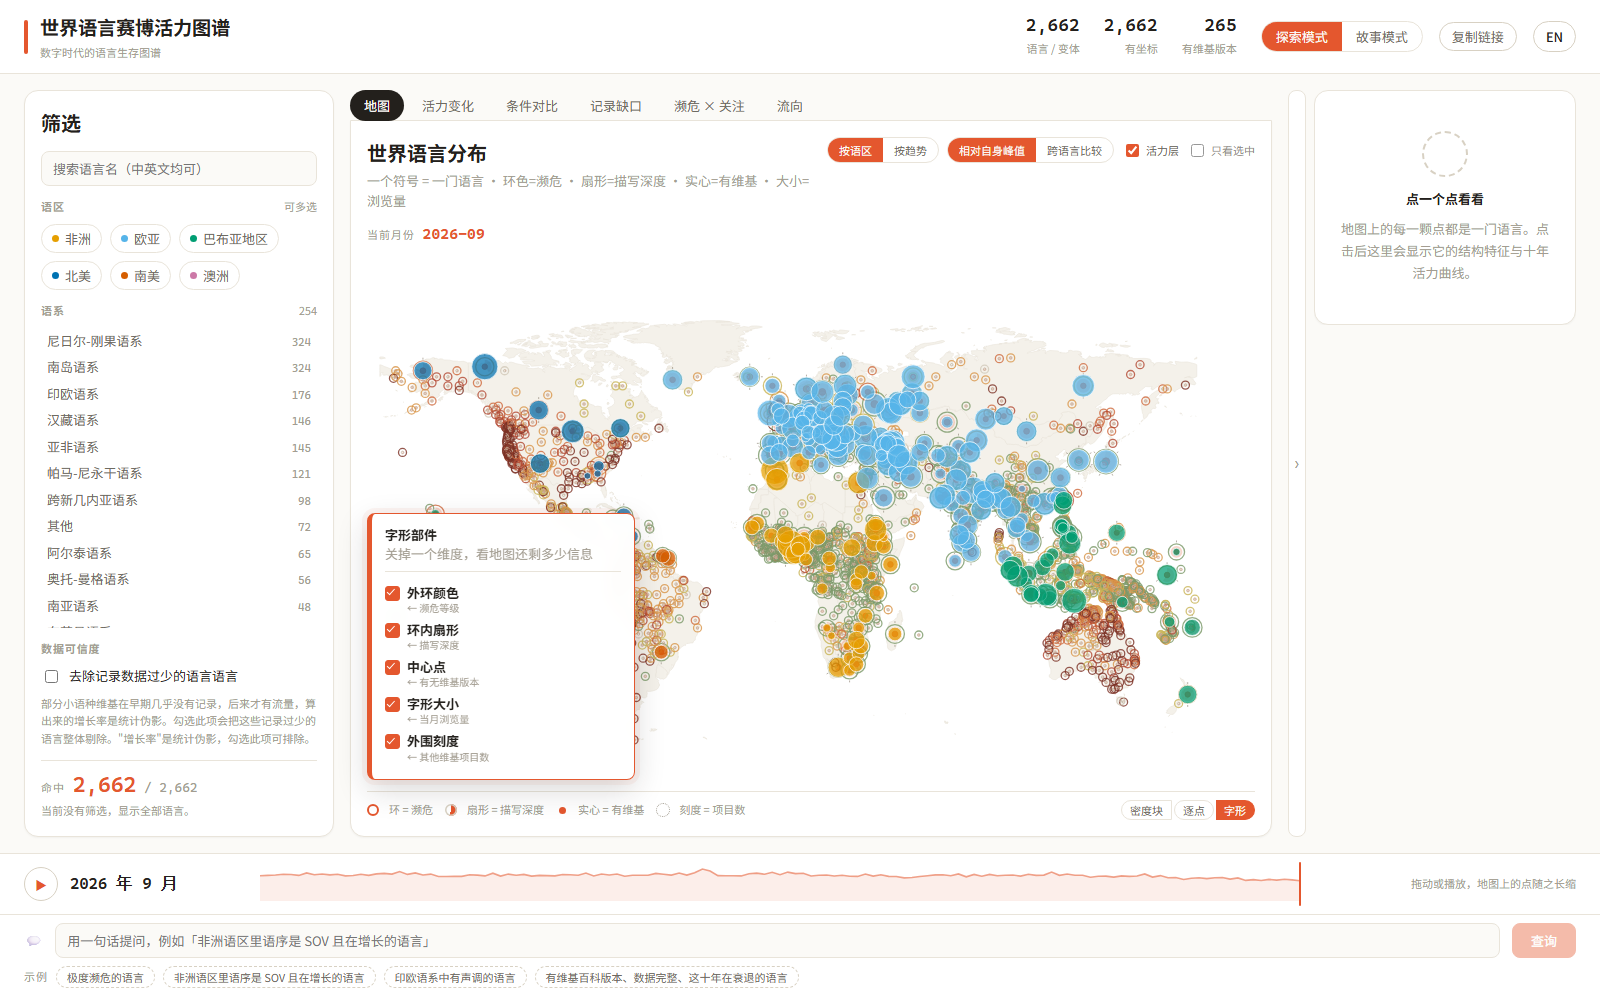
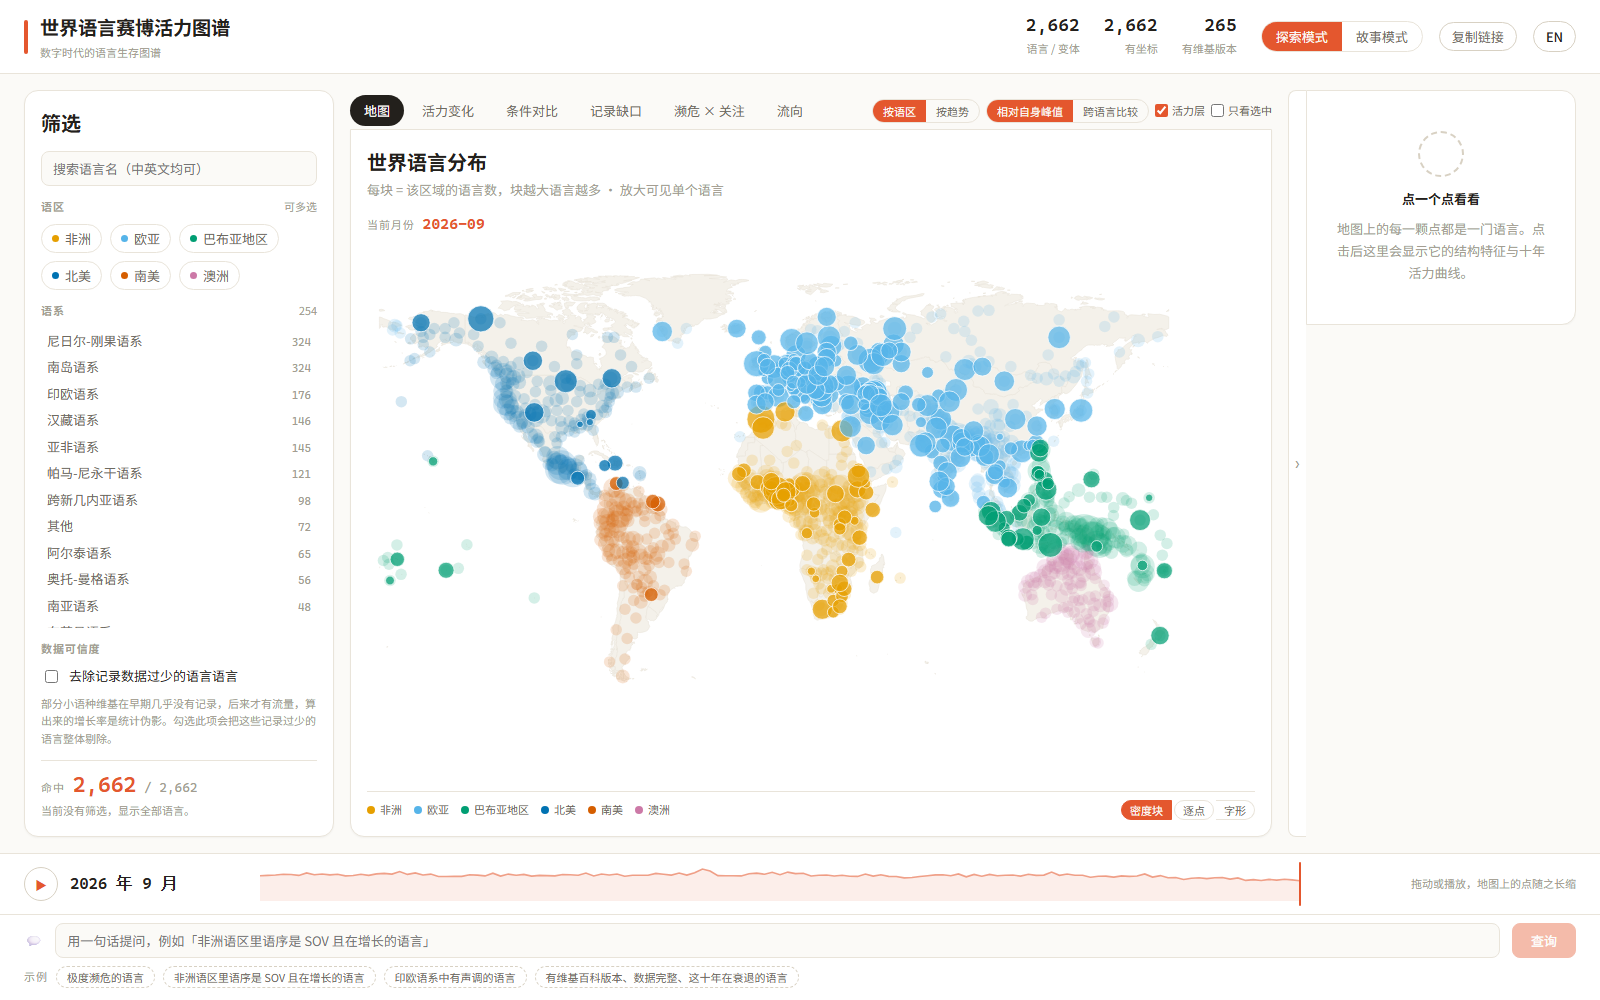
feat(ui): 字形通道面板可收起 —— 用户反馈它挡地图

diff --git a/web/src/components/WorldMap.vue b/web/src/components/WorldMap.vue
@@ -811,6 +811,10 @@ const CHANNELS = computed(() => [
   { key: 'ticks' as const, label: t.value.chTicks, dim: t.value.dTicks },
 ])
 
+/** 开着几个通道 —— 收起时也能一眼看到 */
+const enabledChannels = computed(
+  () => Object.values(store.glyphChannels).filter(Boolean).length)
+
 function toggleChannel(key: keyof typeof store.glyphChannels, e: Event) {
   const on = (e.target as HTMLInputElement).checked
   store.glyphChannels[key] = on
@@ -909,23 +913,28 @@ watch(() => store.lang, () => render(true))
     <div ref="host" class="chart" />
 
     <!-- 字形通道开关：浮在地图左上角，只在字形模式下出现 -->
-    <div v-if="store.mapMode === 'glyph'" class="channels">
-      <p class="ch-head">
-        {{ t.chTitle }}
-        <span>{{ t.chHint }}</span>
-      </p>
-      <label v-for="c in CHANNELS" :key="c.key" class="ch">
-        <input
-          type="checkbox"
-          :checked="store.glyphChannels[c.key]"
-          @change="toggleChannel(c.key, $event)"
-        >
-        <span class="ch-box" />
-        <span class="ch-txt">
-          <b>{{ c.label }}</b>
-          <i>{{ c.dim }}</i>
-        </span>
-      </label>
+    <div v-if="store.mapMode === 'glyph'" class="channels"
+         :class="{ folded: !store.glyphPanelOpen }">
+      <button class="ch-toggle" @click="store.glyphPanelOpen = !store.glyphPanelOpen">
+        <span class="ch-title">{{ t.chTitle }}</span>
+        <span class="ch-count num">{{ enabledChannels }}/5</span>
+        <span class="chev">{{ store.glyphPanelOpen ? '▾' : '▸' }}</span>
+      </button>
+      <div v-show="store.glyphPanelOpen" class="ch-body">
+        <p class="ch-head">{{ t.chHint }}</p>
+        <label v-for="c in CHANNELS" :key="c.key" class="ch">
+          <input
+            type="checkbox"
+            :checked="store.glyphChannels[c.key]"
+            @change="toggleChannel(c.key, $event)"
+          >
+          <span class="ch-box" />
+          <span class="ch-txt">
+            <b>{{ c.label }}</b>
+            <i>{{ c.dim }}</i>
+          </span>
+        </label>
+      </div>
     </div>
 
     <div class="legend">
@@ -1059,11 +1068,27 @@ h2 { margin: 0; font-size: var(--fs-h2); font-weight: 600; }
     0 0 0 5px rgba(228, 87, 46, 0.06);
   padding: 12px 13px 13px;
   backdrop-filter: blur(8px);
+  transition: width var(--dur-fast) var(--ease-out);
 }
+/* 收起状态：只留一行标题，不再挡地图 */
+.channels.folded { width: auto; min-width: 172px; padding: 9px 12px 10px; }
+.ch-toggle {
+  display: flex; align-items: center; gap: 6px; width: 100%;
+  border: 0; background: transparent; padding: 0;
+  cursor: pointer; font-family: inherit; text-align: left;
+}
+.ch-title {
+  font-size: var(--fs-small); font-weight: 700; color: var(--text-primary);
+}
+.ch-count {
+  margin-left: auto; font-size: 11px; font-weight: 700; color: var(--accent);
+}
+.chev { font-size: 11px; color: var(--text-muted); }
+.ch-body { margin-top: 9px; padding-top: 7px; border-top: 1px solid var(--border); }
+.channels.folded .ch-body { display: none; }
 .ch-head {
-  margin: 0 0 9px; font-size: var(--fs-small); font-weight: 700;
-  color: var(--text-primary); line-height: 1.45;
-  padding-bottom: 7px; border-bottom: 1px solid var(--border);
+  margin: 0 0 9px; font-size: var(--fs-micro); font-weight: 400;
+  color: var(--text-muted); line-height: 1.5;
 }
 .ch-head span { display: block; font-weight: 400; color: var(--text-muted); }
 .ch {

diff --git a/web/src/stores/dataset.ts b/web/src/stores/dataset.ts
@@ -187,6 +187,8 @@ interface State {
    * 各部件编码哪个维度由 `glyphChannels` 决定。
    */
   mapMode: 'density' | 'dots' | 'glyph'
+  /** 字形通道面板是否展开。放 store 而非组件内，切视图回来不会自动弹开 */
+  glyphPanelOpen: boolean
   /**
    * 字形各通道的开关。关掉的通道用中性色画（而不是不画），
    * 这样"关掉这个维度"看得见代价：地图会立刻变灰一片。
@@ -256,6 +258,7 @@ export const useDataset = defineStore('dataset', {
     colorBy: 'macroarea',
     showVitality: true,
     mapMode: 'density',
+    glyphPanelOpen: true,
     glyphChannels: { ring: true, arc: true, core: true, size: true, ticks: true },
     /**
      * 自然语言回答。由 NlQuery 写入、AnswerPanel 渲染。

diff --git a/_tools/patch_channels_fold.py b/_tools/patch_channels_fold.py
@@ -1,0 +1,123 @@
+"""字形通道面板支持收起 —— 用户反馈它挡地图。"""
+
+import io
+import sys
+
+sys.stdout.reconfigure(encoding="utf-8", errors="replace")
+
+
+def sub(path, old, new, tag):
+    s = io.open(path, encoding="utf-8").read()
+    if old in s:
+        io.open(path, "w", encoding="utf-8").write(s.replace(old, new, 1))
+        print(f"  ok   {tag}")
+    else:
+        print(f"  MISS {tag}")
+
+
+# 1) store：记住收起状态（放 store 是因为切视图会重建组件）
+sub("web/src/stores/dataset.ts",
+    "  mapMode: 'density' | 'dots' | 'glyph'",
+    "  mapMode: 'density' | 'dots' | 'glyph'\n"
+    "  /** 字形通道面板是否展开。放 store 而非组件内，切视图回来不会自动弹开 */\n"
+    "  glyphPanelOpen: boolean",
+    "store 接口")
+
+sub("web/src/stores/dataset.ts",
+    "    mapMode: 'density',",
+    "    mapMode: 'density',\n    glyphPanelOpen: true,",
+    "store 默认值")
+
+# 2) 模板：标题变成可点的收起开关，本体 v-show
+OLD = """    <div v-if="store.mapMode === 'glyph'" class="channels">
+      <p class="ch-head">
+        {{ t.chTitle }}
+        <span>{{ t.chHint }}</span>
+      </p>
+      <label v-for="c in CHANNELS" :key="c.key" class="ch">
+        <input
+          type="checkbox"
+          :checked="store.glyphChannels[c.key]"
+          @change="toggleChannel(c.key, $event)"
+        >
+        <span class="ch-box" />
+        <span class="ch-txt">
+          <b>{{ c.label }}</b>
+          <i>{{ c.dim }}</i>
+        </span>
+      </label>
+    </div>"""
+
+NEW = """    <div v-if="store.mapMode === 'glyph'" class="channels"
+         :class="{ folded: !store.glyphPanelOpen }">
+      <button class="ch-toggle" @click="store.glyphPanelOpen = !store.glyphPanelOpen">
+        <span class="ch-title">{{ t.chTitle }}</span>
+        <span class="ch-count num">{{ enabledChannels }}/5</span>
+        <span class="chev">{{ store.glyphPanelOpen ? '▾' : '▸' }}</span>
+      </button>
+      <div v-show="store.glyphPanelOpen" class="ch-body">
+        <p class="ch-head">{{ t.chHint }}</p>
+        <label v-for="c in CHANNELS" :key="c.key" class="ch">
+          <input
+            type="checkbox"
+            :checked="store.glyphChannels[c.key]"
+            @change="toggleChannel(c.key, $event)"
+          >
+          <span class="ch-box" />
+          <span class="ch-txt">
+            <b>{{ c.label }}</b>
+            <i>{{ c.dim }}</i>
+          </span>
+        </label>
+      </div>
+    </div>"""
+sub("web/src/components/WorldMap.vue", OLD, NEW, "模板：可收起")
+
+# 3) 计算开着的通道数
+sub("web/src/components/WorldMap.vue",
+    "function toggleChannel(",
+    "/** 开着几个通道 —— 收起时也能一眼看到 */\n"
+    "const enabledChannels = computed(\n"
+    "  () => Object.values(store.glyphChannels).filter(Boolean).length)\n\n"
+    "function toggleChannel(",
+    "计算通道数")
+
+# 4) 样式：标题变按钮、收起后只留一行
+sub("web/src/components/WorldMap.vue",
+    """  padding: 12px 13px 13px;
+  backdrop-filter: blur(8px);
+}""",
+    """  padding: 12px 13px 13px;
+  backdrop-filter: blur(8px);
+  transition: width var(--dur-fast) var(--ease-out);
+}
+/* 收起状态：只留一行标题，不再挡地图 */
+.channels.folded { width: auto; min-width: 172px; padding: 9px 12px 10px; }
+.ch-toggle {
+  display: flex; align-items: center; gap: 6px; width: 100%;
+  border: 0; background: transparent; padding: 0;
+  cursor: pointer; font-family: inherit; text-align: left;
+}
+.ch-title {
+  font-size: var(--fs-small); font-weight: 700; color: var(--text-primary);
+}
+.ch-count {
+  margin-left: auto; font-size: 11px; font-weight: 700; color: var(--accent);
+}
+.chev { font-size: 11px; color: var(--text-muted); }
+.ch-body { margin-top: 9px; padding-top: 7px; border-top: 1px solid var(--border); }
+.channels.folded .ch-body { display: none; }""",
+    "样式：收起状态")
+
+# 标题在展开时不再重复画分隔线（.ch-body 已经有）
+sub("web/src/components/WorldMap.vue",
+    """.ch-head {
+  margin: 0 0 9px; font-size: var(--fs-small); font-weight: 700;
+  color: var(--text-primary); line-height: 1.45;
+  padding-bottom: 7px; border-bottom: 1px solid var(--border);
+}""",
+    """.ch-head {
+  margin: 0 0 9px; font-size: var(--fs-micro); font-weight: 400;
+  color: var(--text-muted); line-height: 1.5;
+}""",
+    "样式：说明文字")
